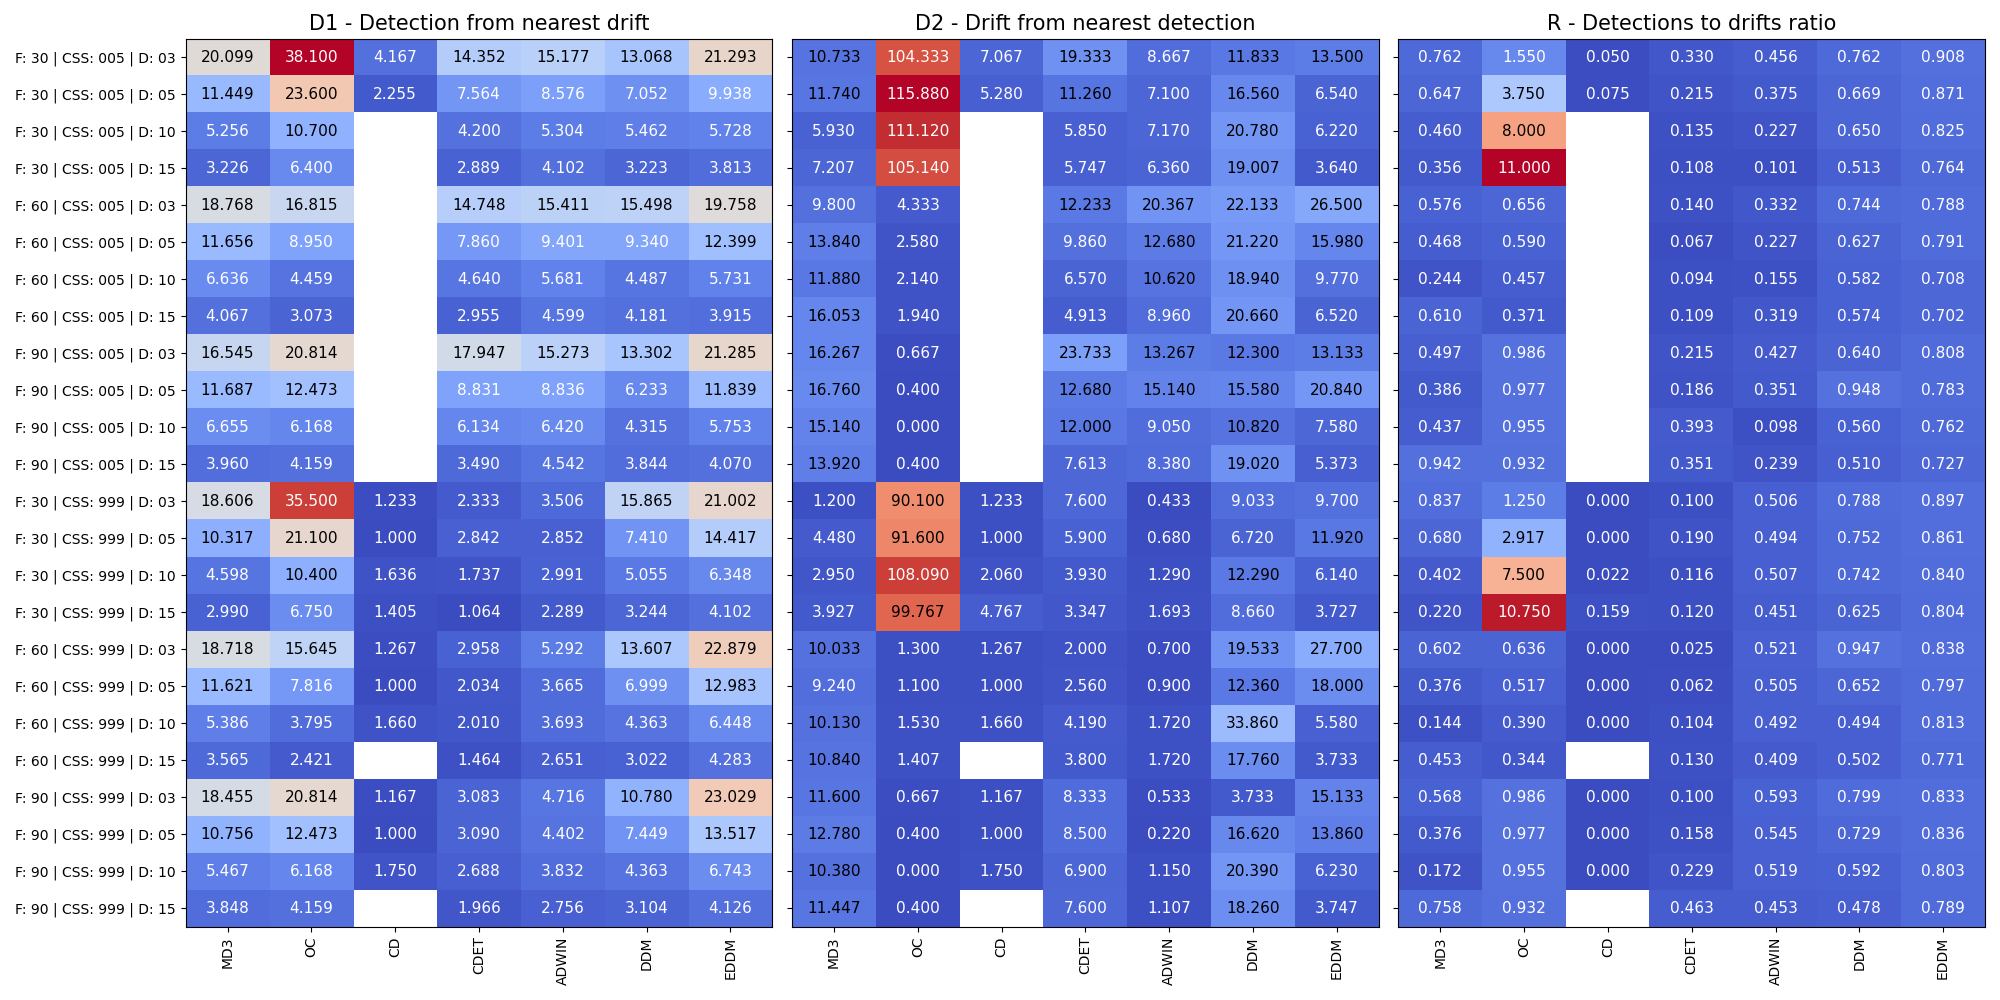
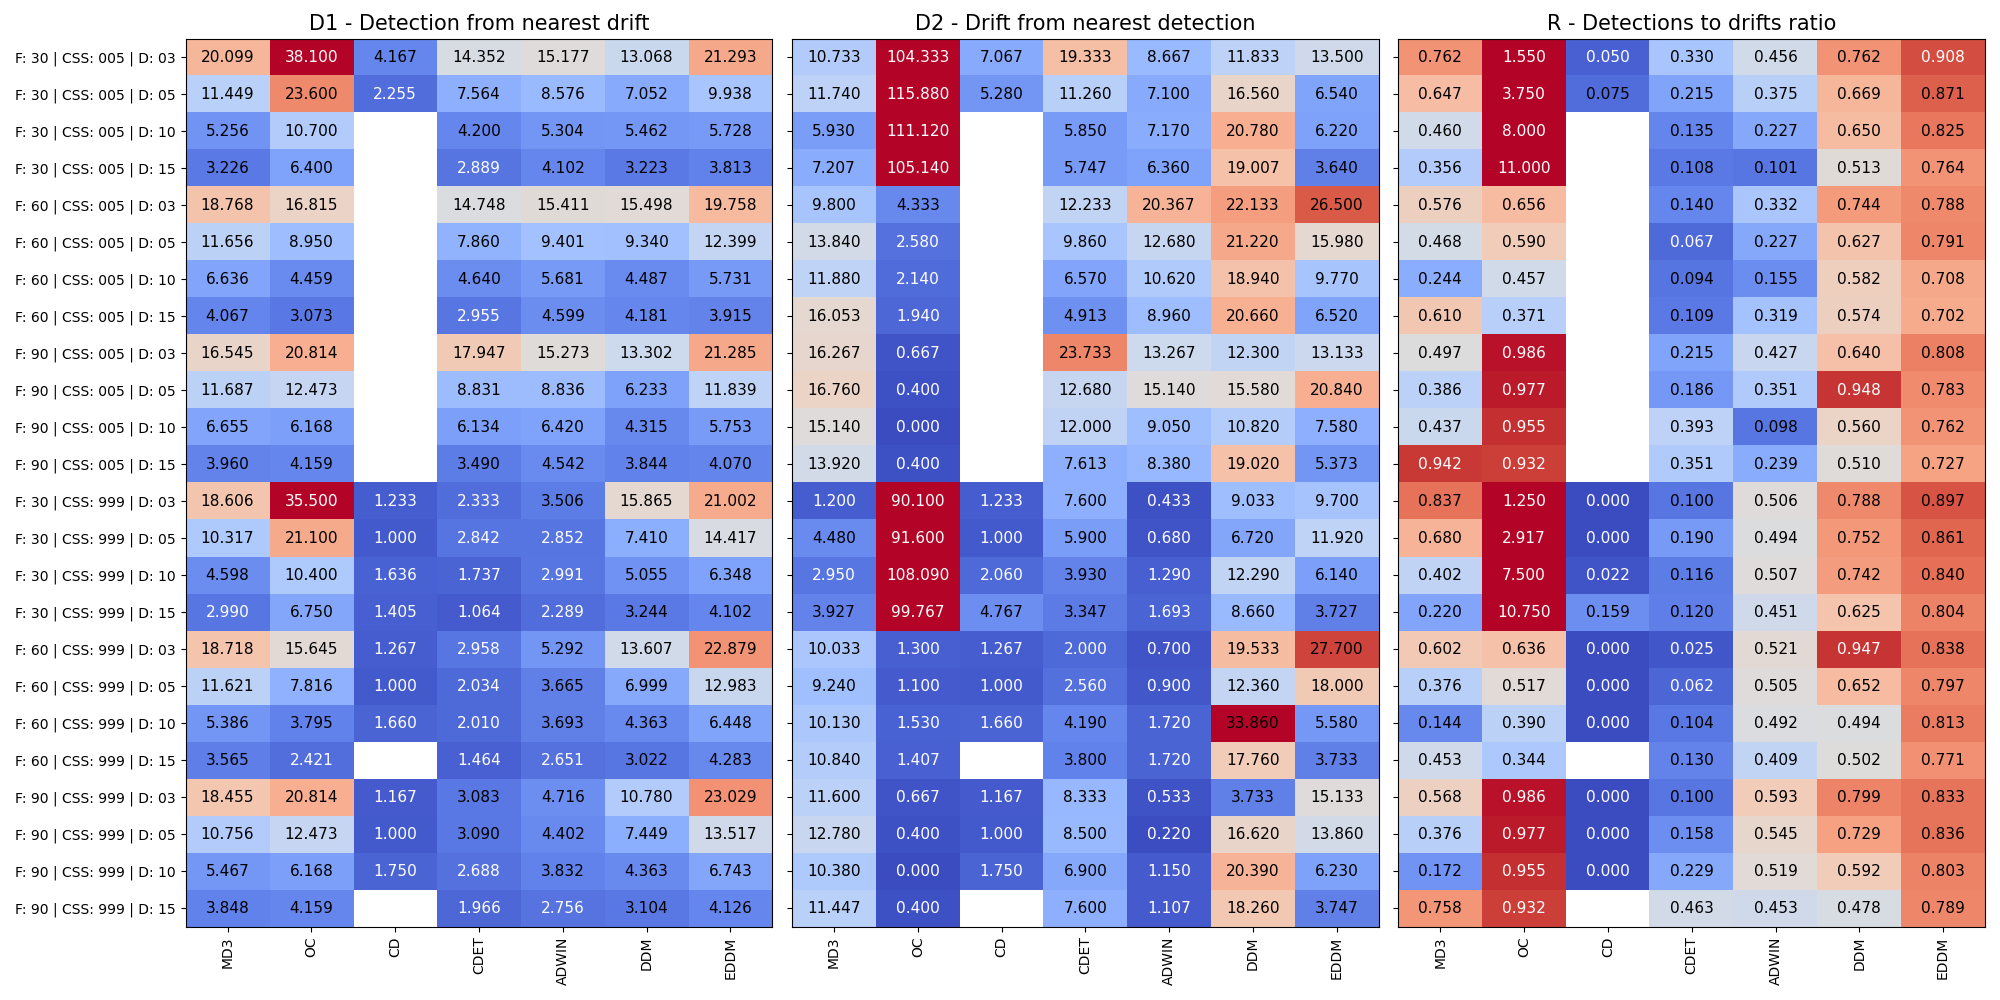
cols

diff --git a/analyze_compare_more_nans.py b/analyze_compare_more_nans.py
@@ -45,13 +45,13 @@ str_names = str_names.swapaxes(0,1).reshape(-1)
 
 fig, ax = plt.subplots(1, 3, figsize=(20,10), sharex=True, sharey=True)
 
-ax[0].imshow(mean_results[:,:,0], cmap='coolwarm', aspect='auto')
+ax[0].imshow(mean_results[:,:,0], cmap='coolwarm', aspect='auto', vmin=0, vmax=30)
 ax[0].set_title('D1 - Detection from nearest drift', fontsize=15)
 
-ax[1].imshow(mean_results[:,:,1], cmap='coolwarm', aspect='auto')
+ax[1].imshow(mean_results[:,:,1], cmap='coolwarm', aspect='auto', vmin=0, vmax=30)
 ax[1].set_title('D2 - Drift from nearest detection', fontsize=15)
 
-ax[2].imshow(mean_results[:,:,2], cmap='coolwarm', aspect='auto')
+ax[2].imshow(mean_results[:,:,2], cmap='coolwarm', aspect='auto', vmin=0, vmax=1)
 ax[2].set_title('R - Detections to drifts ratio', fontsize=15)
 
 for aa in ax:
@@ -68,13 +68,13 @@ for i in range(3):
                         c='white' 
                         if (
                         i==0 and 
-                          (mean_results[:,:,i][_a, _b] > 30 or mean_results[:,:,i][_a, _b] < 10))
+                          (mean_results[:,:,i][_a, _b] > 30 or mean_results[:,:,i][_a, _b] < 3))
                         or (
                         i==1 and 
-                          (mean_results[:,:,i][_a, _b] > 100 or mean_results[:,:,i][_a, _b] < 10))
+                          (mean_results[:,:,i][_a, _b] > 80 or mean_results[:,:,i][_a, _b] < 3))
                         or (
                         i==2 and
-                          (mean_results[:,:,i][_a, _b] > 10 or mean_results[:,:,i][_a, _b] < 1.7))
+                          (mean_results[:,:,i][_a, _b] > 0.9 or mean_results[:,:,i][_a, _b] < .07))
                         else 'black', 
                         fontsize=11)
 
